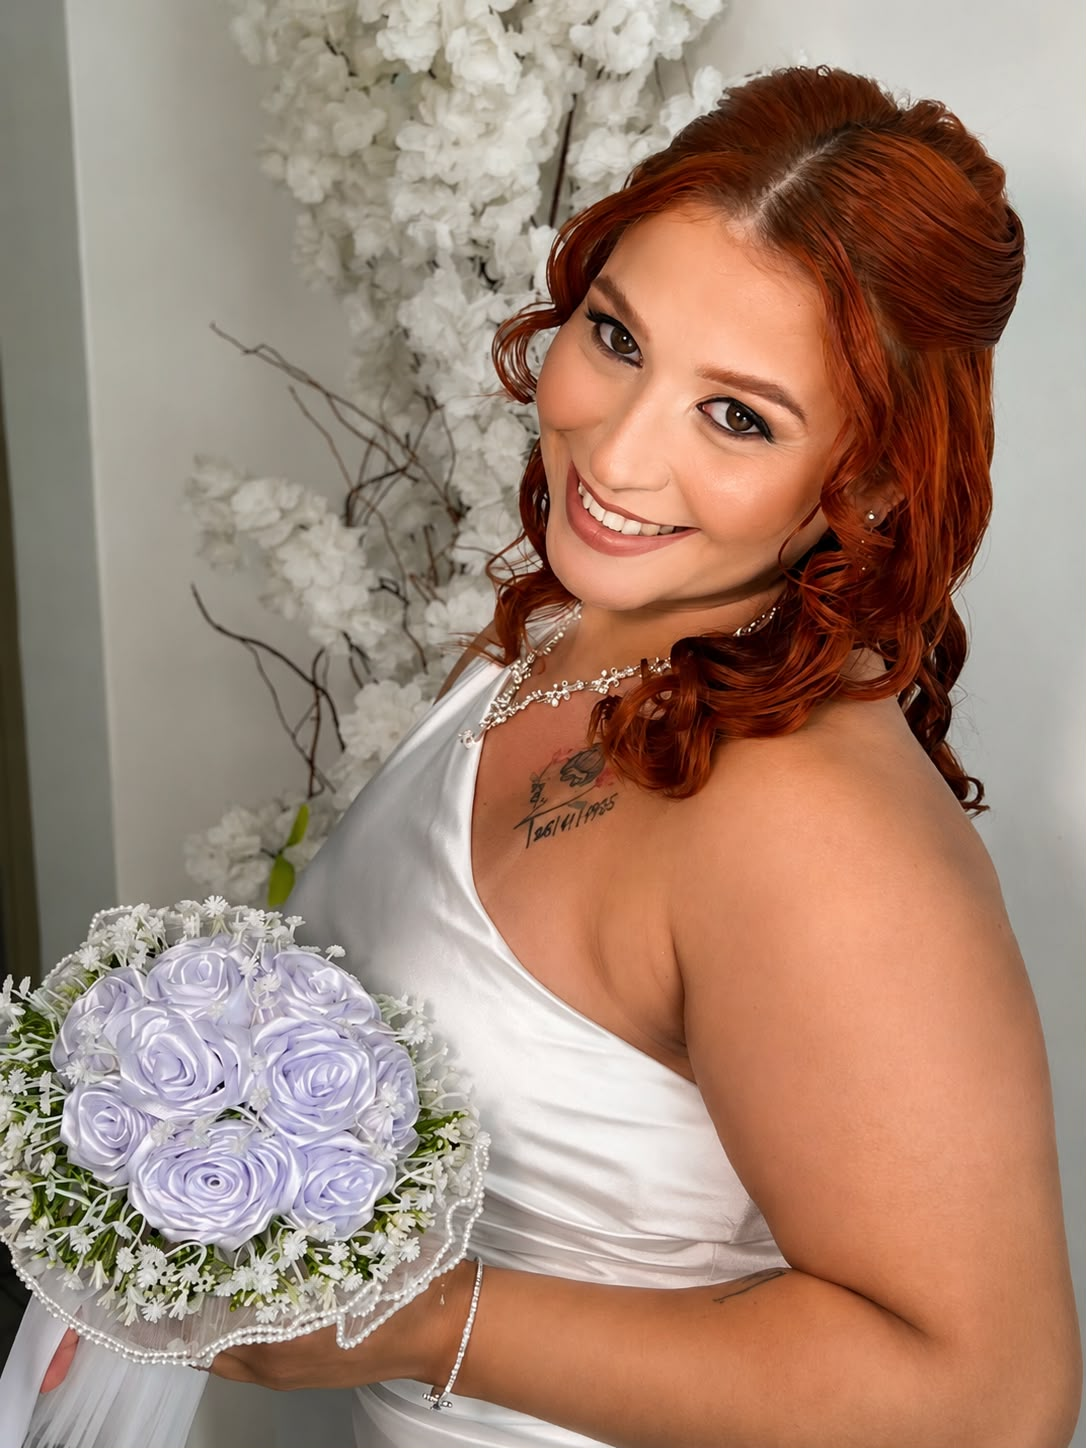
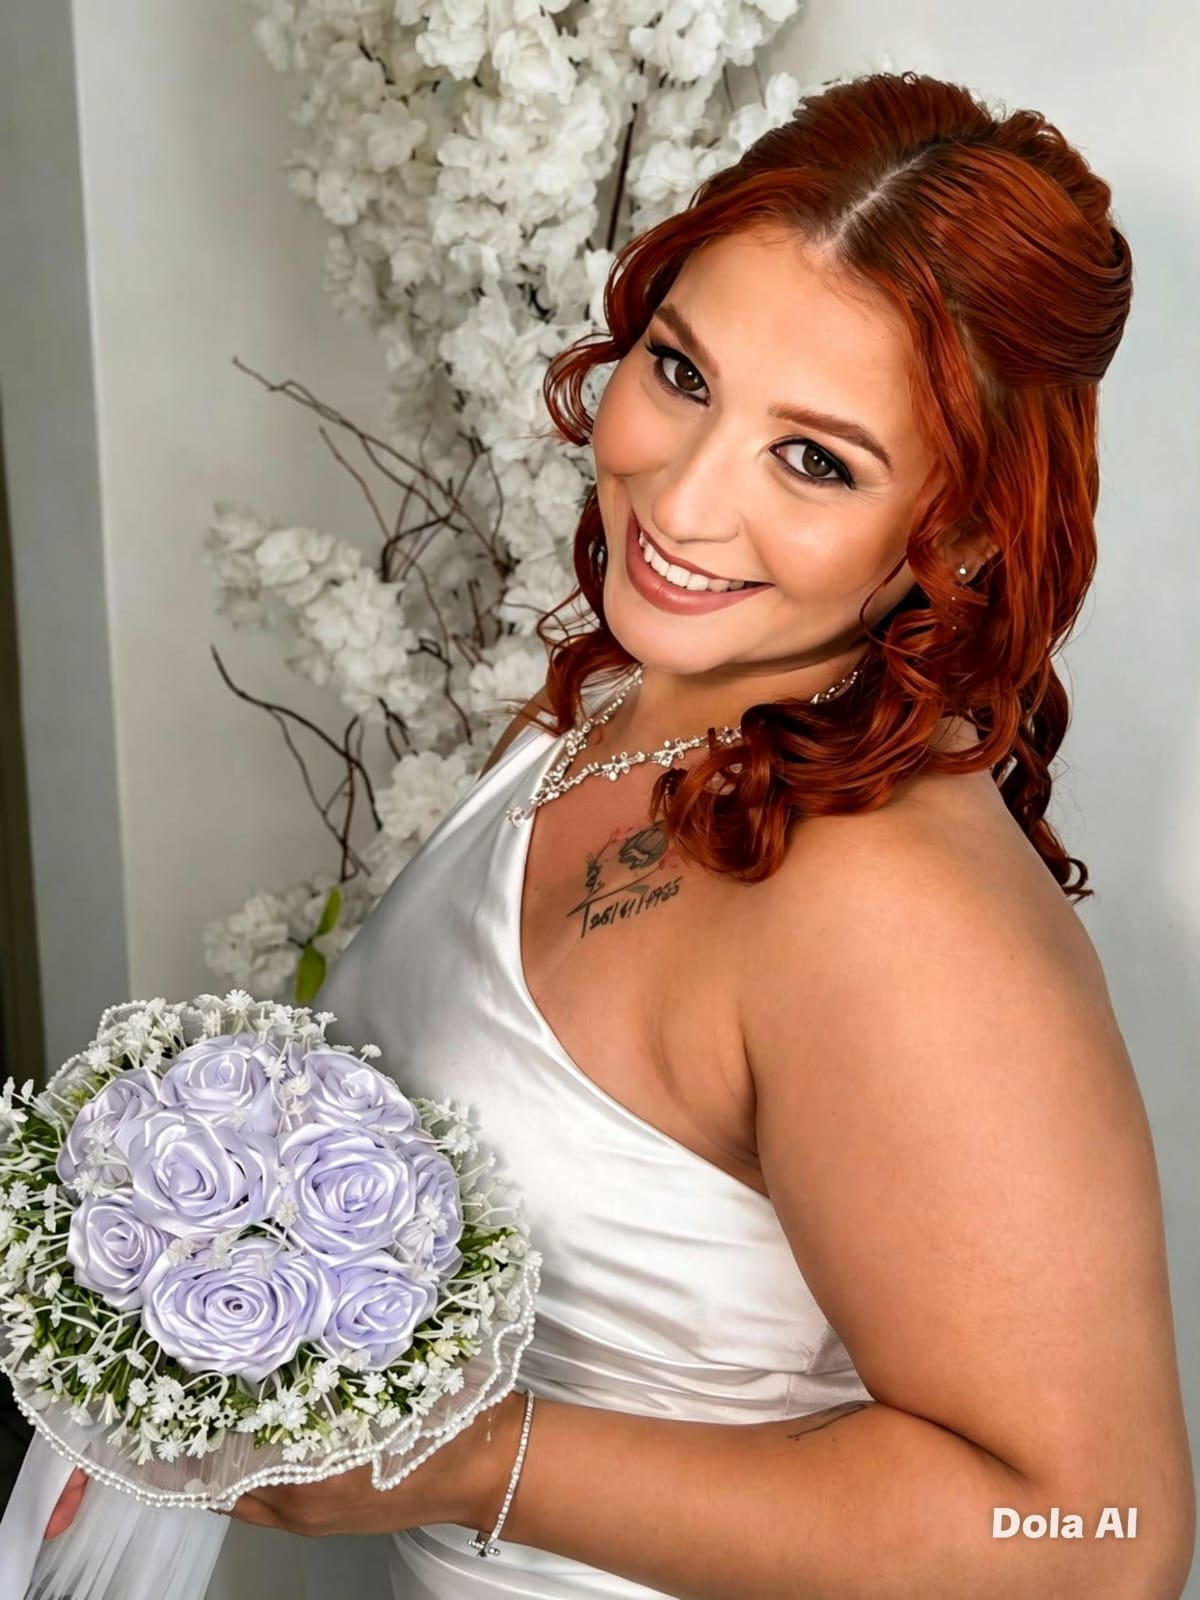
"Ajusta posicionamento das imagens dos serviços"

diff --git a/css/style.css b/css/style.css
@@ -347,8 +347,10 @@ nav ul li a:hover {
 
 @media (max-width: 768px) {
     .service-img {
-        height: 350px;
-        background-position: center top;
+        height: 450px !important;
+        background-size: contain !important;
+        background-repeat: no-repeat;
+        background-position: center center !important;
     }
 }
 .service-card h3 {